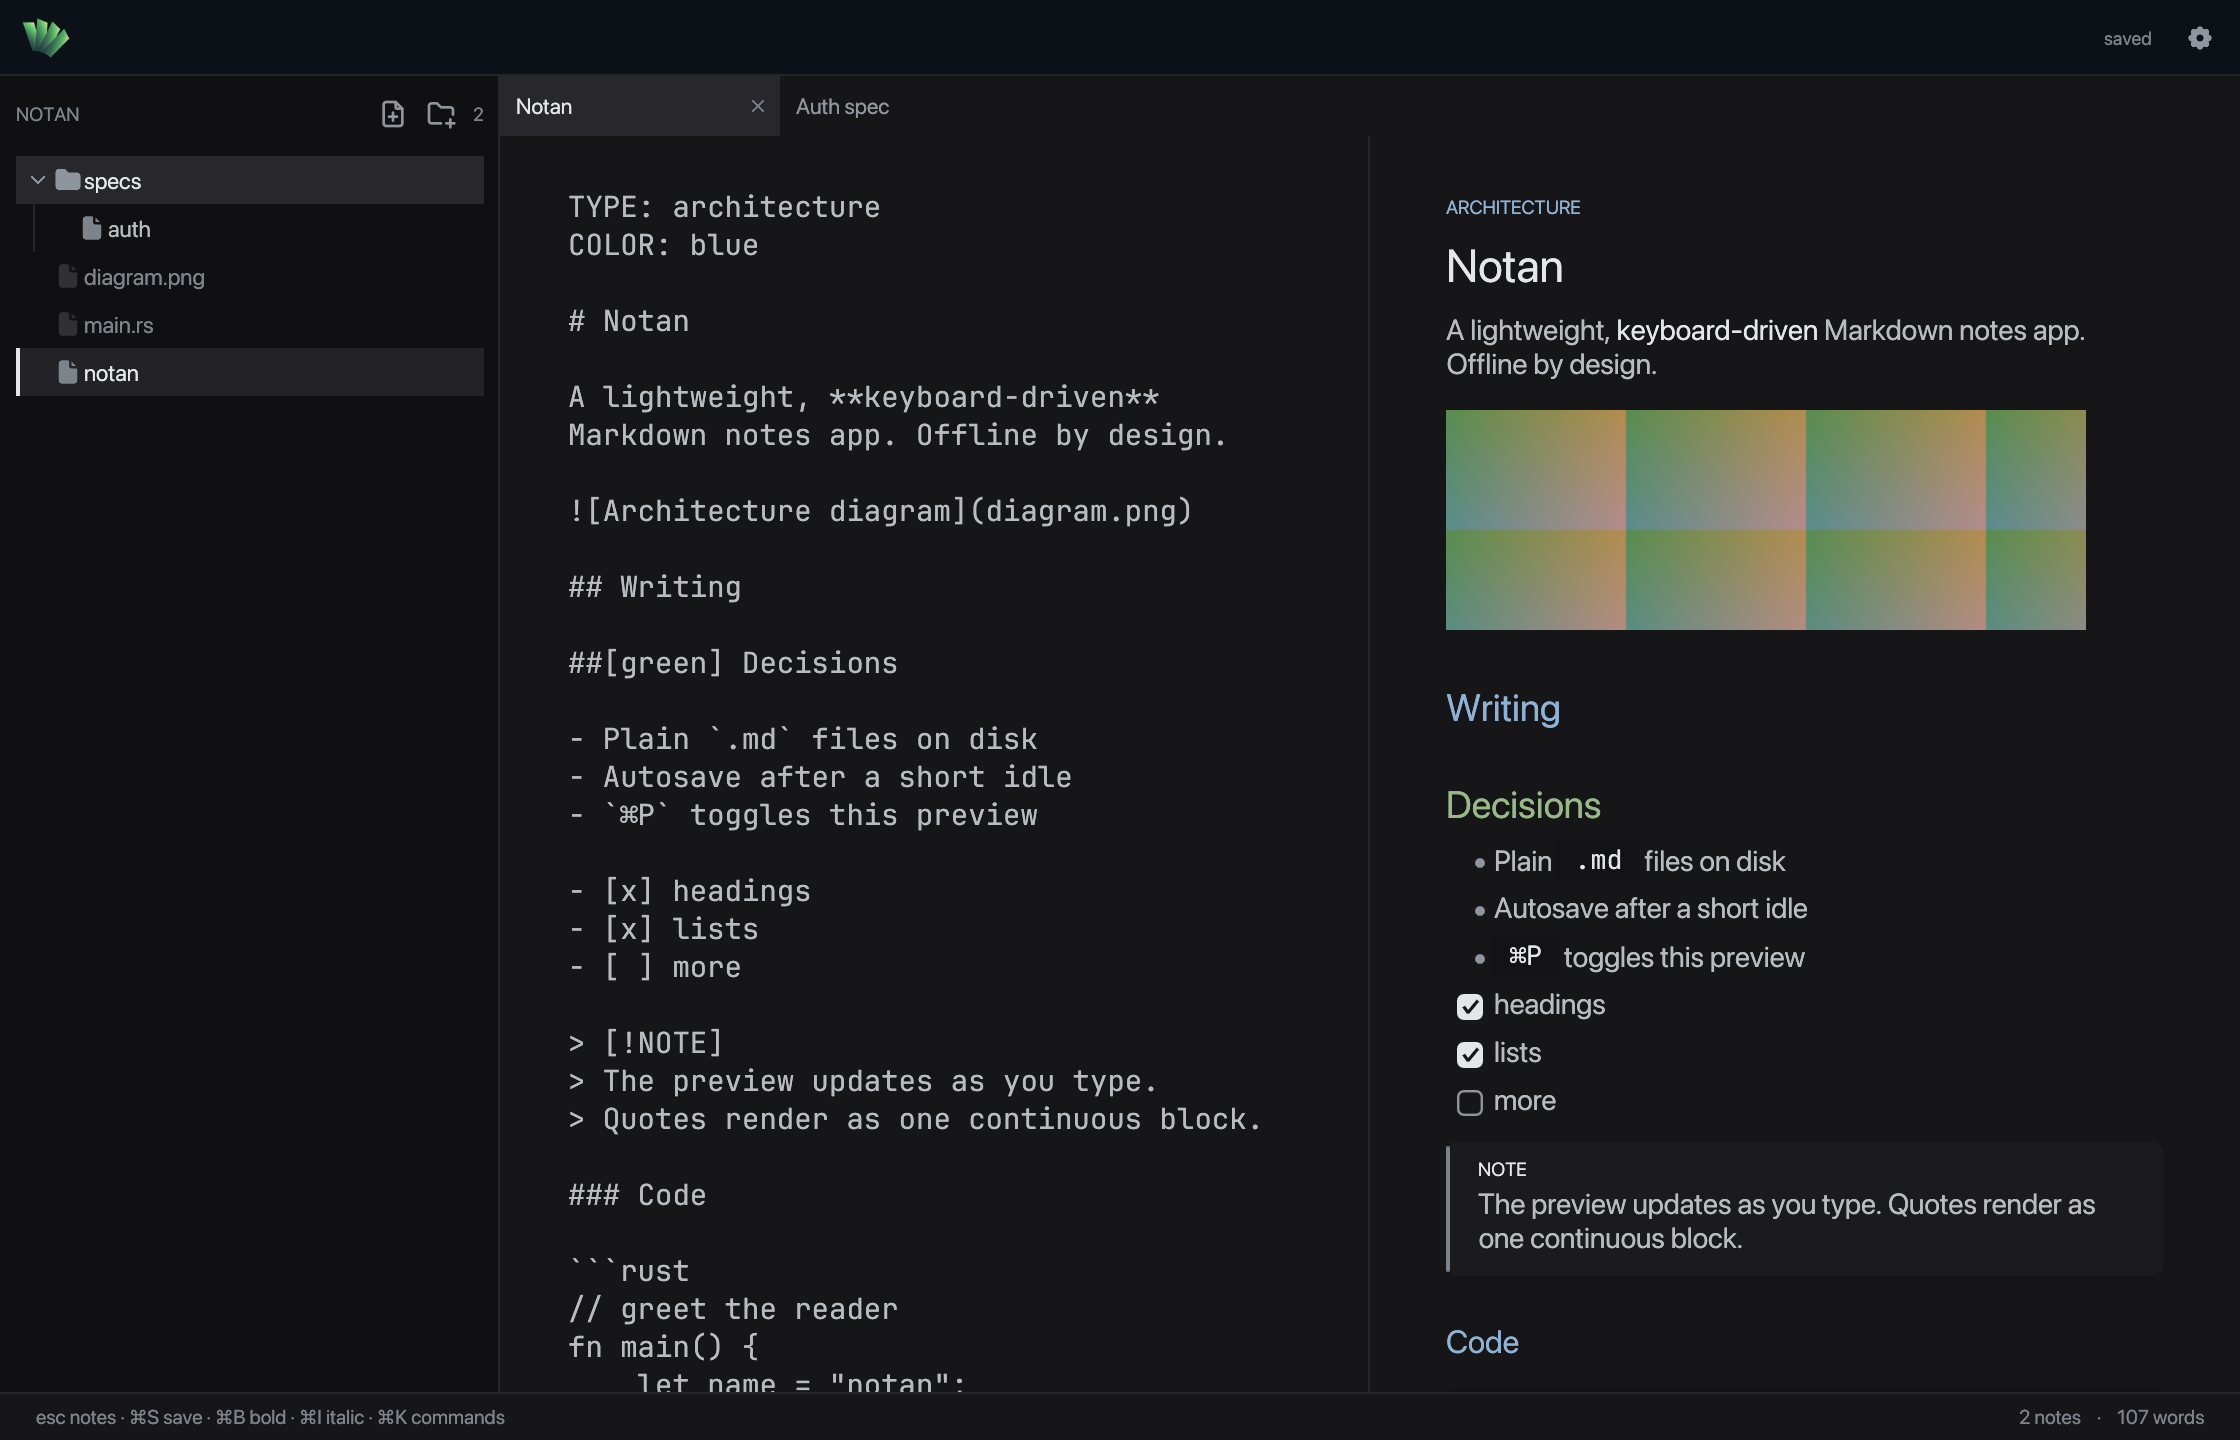
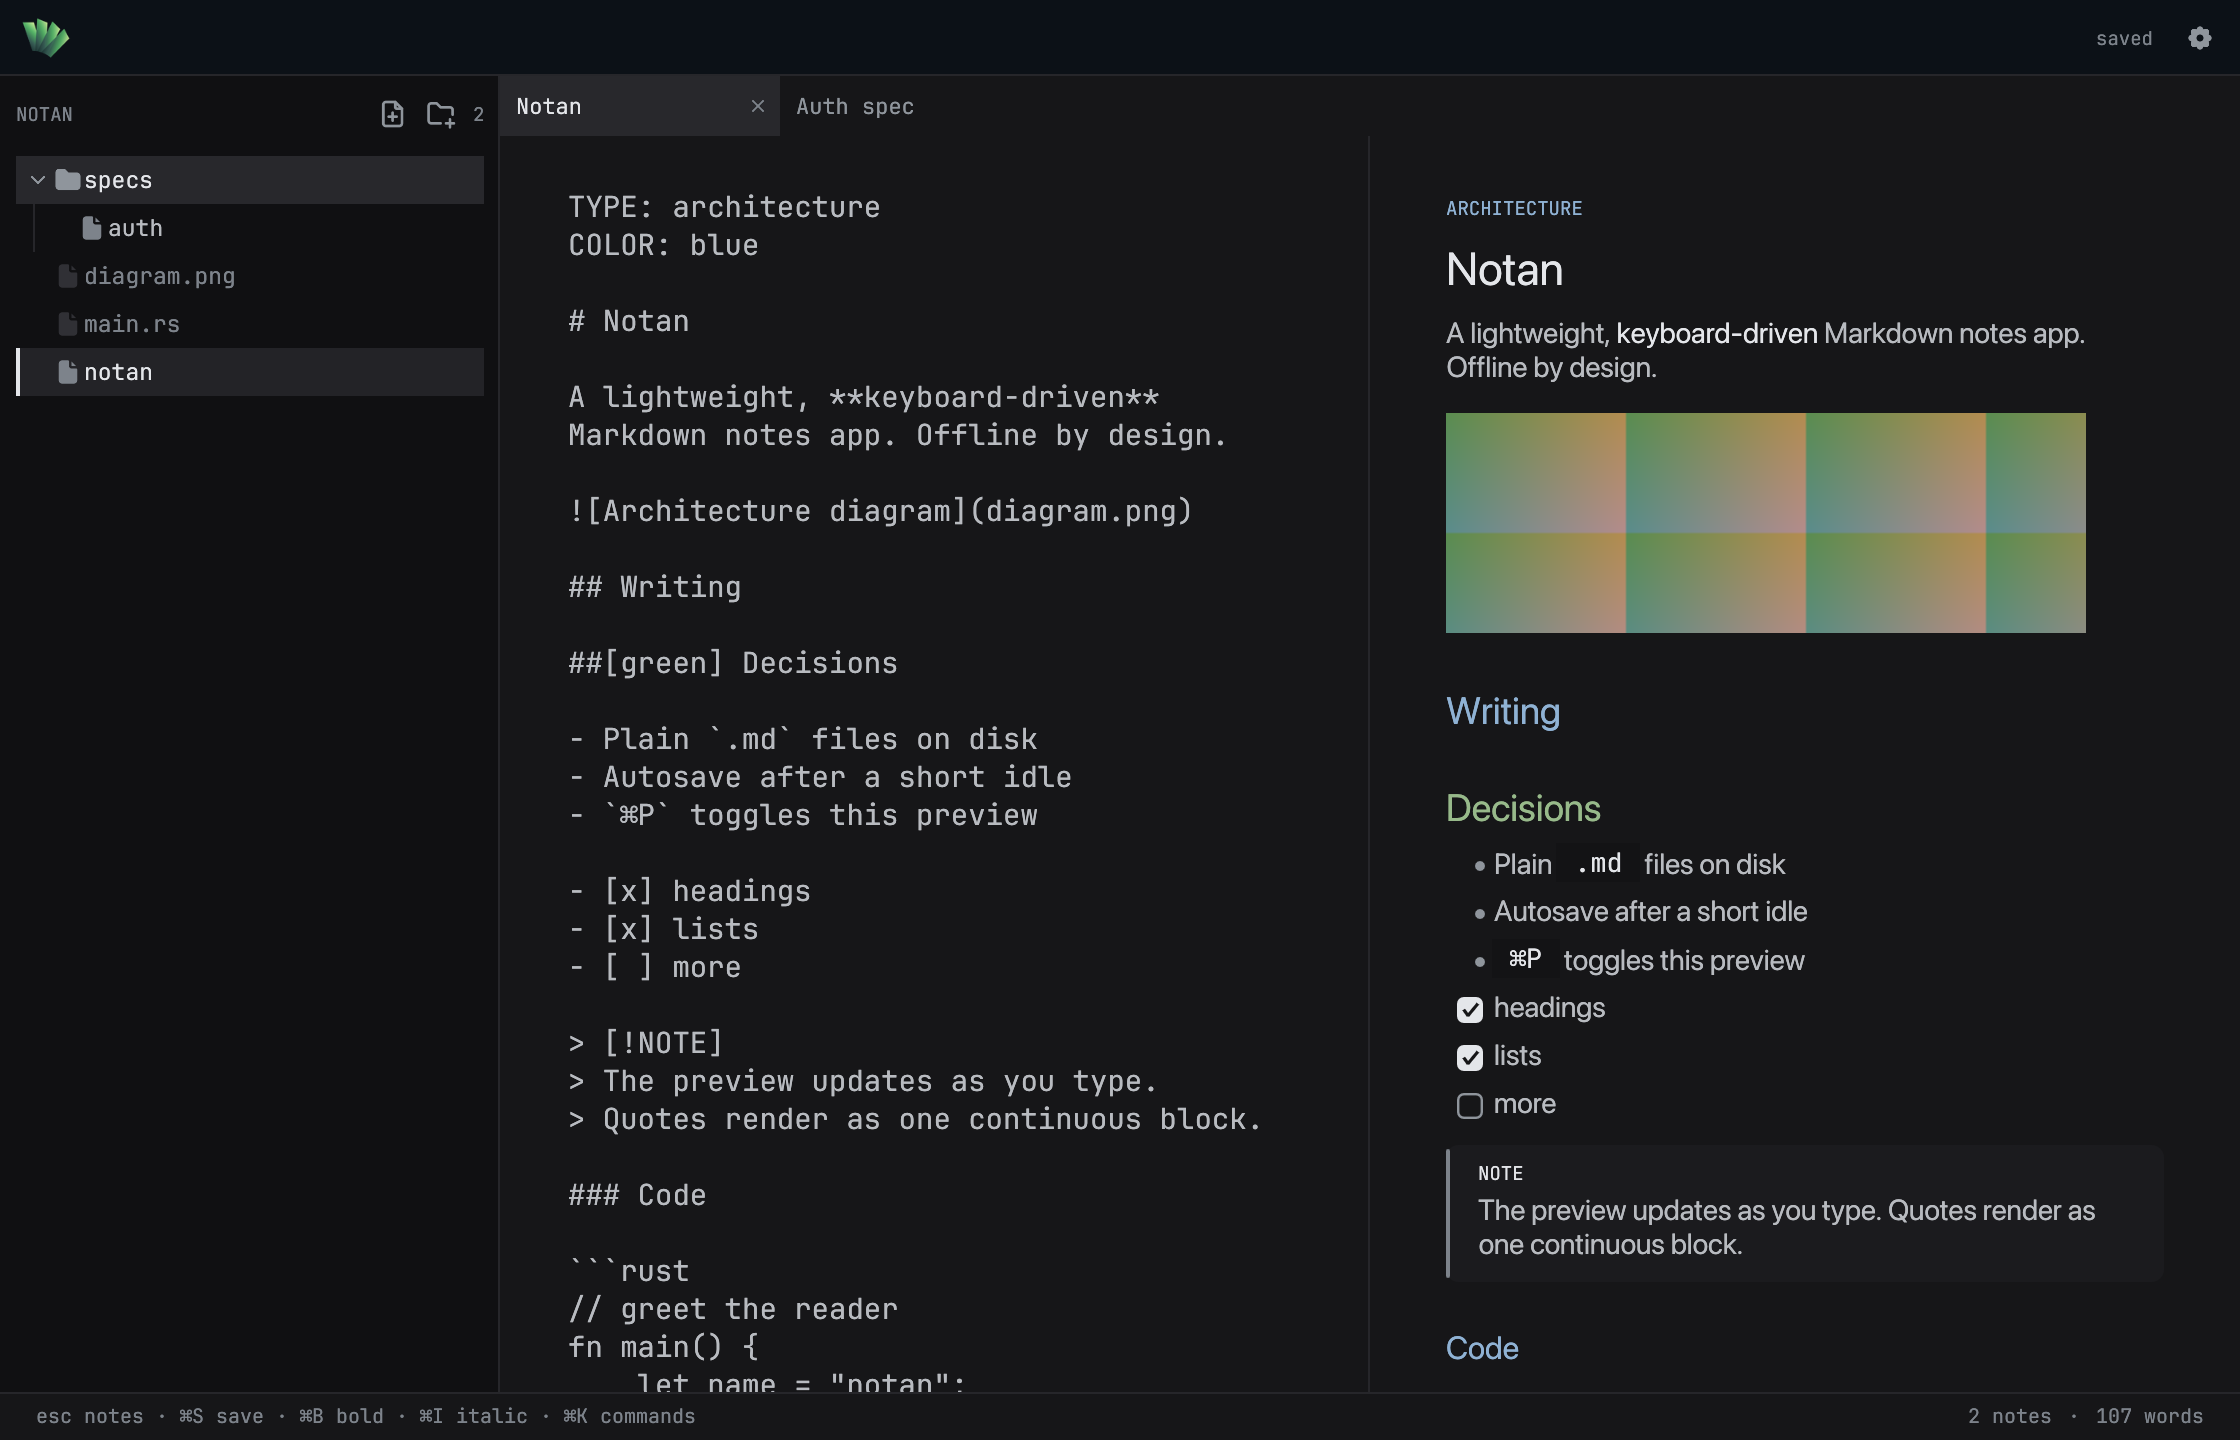
Typography: mono interface, proportional Markdown preview

diff --git a/src/markdown.rs b/src/markdown.rs
@@ -631,6 +631,12 @@ pub enum Action {
 
 /// Draw the document. Returns the action requested by a click, if any.
 pub fn show(ui: &mut Ui, blocks: &[Block], base: Option<&std::path::Path>) -> Option<Action> {
+    let preview = FontFamily::Name("preview".into());
+    let family = if ui.ctx().fonts(|fonts| fonts.families().contains(&preview)) {
+        preview
+    } else {
+        FontFamily::Proportional
+    };
     let mut action = None;
     let mut tasks = 0;
     let mut index = 0;
@@ -641,11 +647,11 @@ pub fn show(ui: &mut Ui, blocks: &[Block], base: Option<&std::path::Path>) -> Op
             while index < blocks.len() && blocks[index].quote() == quote {
                 index += 1;
             }
-            if let Some(next) = quote_group(ui, &blocks[start..index], &mut tasks, base) {
+            if let Some(next) = quote_group(ui, &blocks[start..index], &mut tasks, base, &family) {
                 action = Some(next);
             }
         } else {
-            if let Some(next) = block_ui(ui, &blocks[index], index, &mut tasks, base) {
+            if let Some(next) = block_ui(ui, &blocks[index], index, &mut tasks, base, &family) {
                 action = Some(next);
             }
             index += 1;
@@ -660,6 +666,7 @@ fn block_ui(
     index: usize,
     tasks: &mut usize,
     base: Option<&std::path::Path>,
+    family: &FontFamily,
 ) -> Option<Action> {
     match block {
         Block::Heading {
@@ -668,7 +675,7 @@ fn block_ui(
             color,
             ..
         } => {
-            heading(ui, *level, spans, index == 0, *color);
+            heading(ui, *level, spans, index == 0, *color, family);
             None
         }
         Block::Text {
@@ -685,7 +692,7 @@ fn block_ui(
                 }
                 _ => None,
             };
-            text_block(ui, spans, *indent, marker.as_ref(), 0, task)
+            text_block(ui, spans, *indent, marker.as_ref(), 0, task, family)
         }
         Block::Code {
             lang, text, tokens, ..
@@ -699,7 +706,7 @@ fn block_ui(
             None
         }
         Block::Table { head, rows, .. } => {
-            table(ui, head, rows);
+            table(ui, head, rows, family);
             None
         }
     }
@@ -712,6 +719,7 @@ fn quote_group(
     group: &[Block],
     tasks: &mut usize,
     base: Option<&std::path::Path>,
+    family: &FontFamily,
 ) -> Option<Action> {
     let (label, body) = split_callout(group);
     let mut action = None;
@@ -735,7 +743,7 @@ fn quote_group(
                 ui.add_space(1.0);
             }
             for (index, block) in body.iter().enumerate() {
-                if let Some(next) = block_ui(ui, block, index, tasks, base) {
+                if let Some(next) = block_ui(ui, block, index, tasks, base, family) {
                     action = Some(next);
                 }
             }
@@ -804,6 +812,7 @@ fn heading(
     spans: &[Span],
     first: bool,
     color: Option<Color32>,
+    family: &FontFamily,
 ) {
     let (size, top, bottom) = match level {
         1 => (23.0, 22.0, 10.0),
@@ -813,7 +822,7 @@ fn heading(
     };
     ui.add_space(if first { 0.0 } else { top });
     let width = ui.available_width();
-    let job = job(spans, size, color.unwrap_or(theme::TEXT_BRIGHT), width);
+    let job = job(spans, size, color.unwrap_or(theme::TEXT_BRIGHT), width, family);
     ui.add(Label::new(job).selectable(true));
     ui.add_space(bottom);
 }
@@ -825,6 +834,7 @@ fn text_block(
     marker: Option<&Marker>,
     quote: usize,
     task: Option<usize>,
+    family: &FontFamily,
 ) -> Option<Action> {
     if spans.is_empty() && marker.is_none() {
         return None;
@@ -911,7 +921,7 @@ fn text_block(
                         egui::pos2(rect.right() - 2.0, rect.center().y),
                         Align2::RIGHT_CENTER,
                         format!("{n}."),
-                        preview_font(14.0),
+                        FontId::new(14.0, family.clone()),
                         theme::DIM,
                     );
                 }
@@ -919,7 +929,7 @@ fn text_block(
         }
 
         let ranges = link_ranges(spans);
-        let job = job(spans, theme::BODY_SIZE, theme::TEXT, width);
+        let job = job(spans, theme::BODY_SIZE, theme::TEXT, width, family);
         let galley = ui.painter().layout_job(job);
         let response = ui.add(
             Label::new(galley.clone())
@@ -1139,7 +1149,7 @@ fn rule(ui: &mut Ui) {
     ui.add_space(10.0);
 }
 
-fn table(ui: &mut Ui, head: &[Vec<Span>], rows: &[Vec<Vec<Span>>]) {
+fn table(ui: &mut Ui, head: &[Vec<Span>], rows: &[Vec<Vec<Span>>], family: &FontFamily) {
     let columns = head
         .first()
         .map(Vec::len)
@@ -1159,7 +1169,7 @@ fn table(ui: &mut Ui, head: &[Vec<Span>], rows: &[Vec<Vec<Span>>]) {
         .spacing([gap, 7.0])
         .show(ui, |ui| {
             for cell in head {
-                let job = job(cell, 13.0, theme::TEXT_BRIGHT, cell_width);
+                let job = job(cell, 13.0, theme::TEXT_BRIGHT, cell_width, family);
                 let response = ui.add(Label::new(job).selectable(true));
                 if header_bottom.is_none() {
                     header_bottom = Some(response.rect.bottom());
@@ -1170,7 +1180,7 @@ fn table(ui: &mut Ui, head: &[Vec<Span>], rows: &[Vec<Vec<Span>>]) {
             }
             for row in rows {
                 for cell in row {
-                    let job = job(cell, 13.0, theme::TEXT, cell_width);
+                    let job = job(cell, 13.0, theme::TEXT, cell_width, family);
                     let response = ui.add(Label::new(job).selectable(true));
                     if body_top.is_none() {
                         body_top = Some(response.rect.top());
@@ -1208,15 +1218,17 @@ fn link_ranges(spans: &[Span]) -> Vec<(usize, usize, String)> {
     ranges
 }
 
-fn preview_font(size: f32) -> FontId {
-    FontId::new(size, FontFamily::Proportional)
-}
-
-fn job(spans: &[Span], size: f32, color: Color32, width: f32) -> LayoutJob {
+fn job(
+    spans: &[Span],
+    size: f32,
+    color: Color32,
+    width: f32,
+    family: &FontFamily,
+) -> LayoutJob {
     let mut job = LayoutJob::default();
     job.wrap.max_width = width;
     for span in spans {
-        let mut format = TextFormat::simple(preview_font(size), color);
+        let mut format = TextFormat::simple(FontId::new(size, family.clone()), color);
         if span.strong {
             format.color = theme::TEXT_BRIGHT;
         }

diff --git a/src/theme.rs b/src/theme.rs
@@ -202,6 +202,12 @@ fn install_fonts(ctx: &egui::Context) {
         .or_default()
         .insert(0, "jetbrains_mono".to_owned());
 
+    fonts
+        .families
+        .entry(FontFamily::Proportional)
+        .or_default()
+        .insert(0, "jetbrains_mono".to_owned());
+
     if let Ok(bytes) = std::fs::read("/System/Library/Fonts/SFNS.ttf") {
         fonts
             .font_data
@@ -210,7 +216,7 @@ fn install_fonts(ctx: &egui::Context) {
             .families
             .entry(FontFamily::Proportional)
             .or_default()
-            .insert(0, "sf_text".to_owned());
+            .push("sf_text".to_owned());
     }
 
     if let Ok(bytes) = std::fs::read("/System/Library/Fonts/SFNSMono.ttf") {
@@ -223,6 +229,15 @@ fn install_fonts(ctx: &egui::Context) {
             .or_default()
             .push("sf_mono".to_owned());
     }
+
+    let mut preview = Vec::new();
+    if fonts.font_data.contains_key("sf_text") {
+        preview.push("sf_text".to_owned());
+    }
+    preview.push("jetbrains_mono".to_owned());
+    fonts
+        .families
+        .insert(FontFamily::Name("preview".into()), preview);
 
     ctx.set_fonts(fonts);
 }
